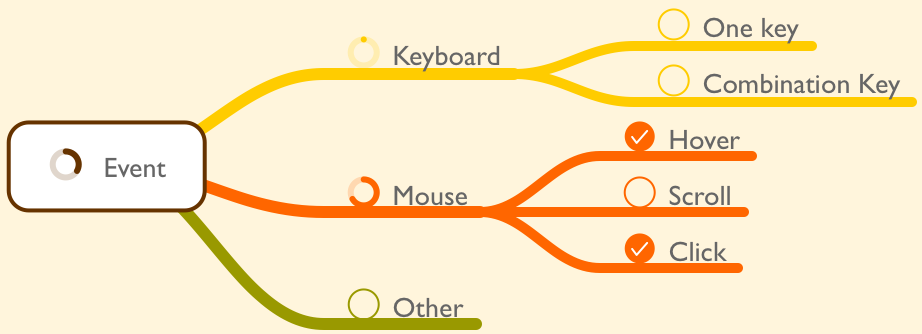
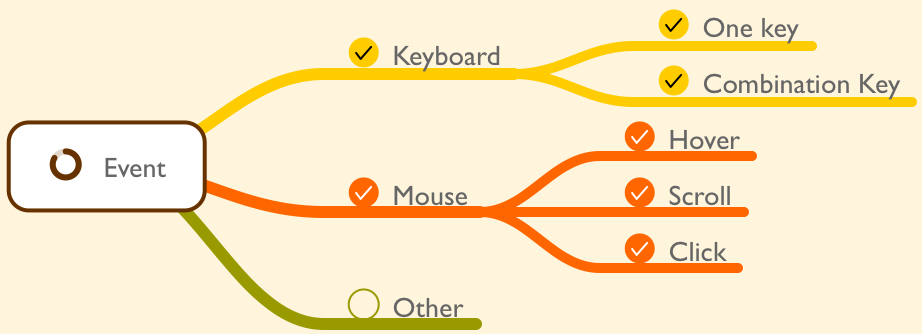
Site updated: 2017-11-19 18:04:21

diff --git a/2017/11/12/all-about-event/index.html b/2017/11/12/all-about-event/index.html
@@ -88,7 +88,7 @@
 <meta property="og:description" content="小角度总结一下事件。  1. MouseEvent1.1 鼠标悬浮一共有两对，mouseenter/mouseleave和mouseover/mouseout，两者的区别如下：  后者会事件冒泡，前者只会出发当前层，而冒泡的好处在于只会被触发一次（层级较深时能有效减少开销）； mouseleave与mouseout，后者在离开子层（即使仍然在范围内）也会触发事件，前者不会。  请看示例（仔细体会）">
 <meta property="og:locale" content="zh-Hans">
 <meta property="og:image" content="https://noname4me.github.io/2017/11/12/all-about-event/Event.png">
-<meta property="og:updated_time" content="2017-11-16T16:15:11.000Z">
+<meta property="og:updated_time" content="2017-11-19T10:02:45.000Z">
 <meta name="twitter:card" content="summary">
 <meta name="twitter:title" content="前端常见Event总结（待续）">
 <meta name="twitter:description" content="小角度总结一下事件。  1. MouseEvent1.1 鼠标悬浮一共有两对，mouseenter/mouseleave和mouseover/mouseout，两者的区别如下：  后者会事件冒泡，前者只会出发当前层，而冒泡的好处在于只会被触发一次（层级较深时能有效减少开销）； mouseleave与mouseout，后者在离开子层（即使仍然在范围内）也会触发事件，前者不会。  请看示例（仔细体会）">
@@ -408,10 +408,16 @@
 <h1 id="2-KeyboardEvent"><a href="#2-KeyboardEvent" class="headerlink" title="2. KeyboardEvent"></a>2. KeyboardEvent</h1><blockquote>
 <p><strong>Note:</strong> 如果是为了处理输入事件，最好使用<code>InputEvent</code>，因为<code>KeyboardEvent</code>只代表键盘事件，非键盘的输入可能无法如你所愿哦～</p>
 </blockquote>
-<p>响应顺序：<code>keydown</code> –&gt; <code>keyup</code> –&gt; <code>keypress</code>。</p>
+<h1 id="2-1-基础"><a href="#2-1-基础" class="headerlink" title="2.1 基础"></a>2.1 基础</h1><p>响应顺序：<code>keydown</code> –&gt; <code>keyup</code> –&gt; <code>keypress</code>。</p>
 <p><a href="https://developer.mozilla.org/en-US/docs/Web/API/KeyboardEvent/code#Code_values_on_Windows" target="_blank" rel="external">键盘编码参考KeyboardEvent.code</a></p>
 <p><a href="http://keycode.info/" target="_blank" rel="external">在线获取keyCode</a></p>
 <p><code>// TODO add select article link.</code><br>一般的，非输入DOMElement无法响应<code>KeyboardEvent</code>，但是可以添加<code>tabindex=数字</code>属性强制让其可以focus，从而响应（见<code>1.4</code>节示例）。</p>
+<h1 id="2-2-组合键"><a href="#2-2-组合键" class="headerlink" title="2.2 组合键"></a>2.2 组合键</h1><p><code>Ctrl</code>、<code>Shift</code>、<code>Alt</code>、<code>Meta</code>在键盘事件中都有对应的标志位(<code>true/false</code>)：<code>ctrlKey</code>、<code>shiftKey</code>、<code>altKey</code>、<code>metaKey</code>。</p>
+<p>请看示例（Ctrl+c/v复制小球）：</p>
+
+<p data-height="265" data-theme-id="dark" data-slug-hash="POERXz" data-default-tab="result" data-user="blurnull" data-embed-version="2" data-pen-title="combined-key" data-preview="true" class="codepen">See the Pen <a href="https://codepen.io/blurnull/pen/POERXz/" target="_blank" rel="external">combined-key</a> by BlurNull (<a href="https://codepen.io/blurnull" target="_blank" rel="external">@blurnull</a>) on <a href="https://codepen.io" target="_blank" rel="external">CodePen</a>.</p>
+<script async src="https://production-assets.codepen.io/assets/embed/ei.js"></script>
+
 
       
     </div>
@@ -595,7 +601,7 @@
             
 
             
-              <div class="post-toc-content"><ol class="nav"><li class="nav-item nav-level-1"><a class="nav-link" href="#1-MouseEvent"><span class="nav-text">1. MouseEvent</span></a><ol class="nav-child"><li class="nav-item nav-level-2"><a class="nav-link" href="#1-1-鼠标悬浮"><span class="nav-text">1.1 鼠标悬浮</span></a></li><li class="nav-item nav-level-2"><a class="nav-link" href="#1-2-鼠标点击"><span class="nav-text">1.2 鼠标点击</span></a></li><li class="nav-item nav-level-2"><a class="nav-link" href="#1-3-滚动（轮）"><span class="nav-text">1.3 滚动（轮）</span></a></li><li class="nav-item nav-level-2"><a class="nav-link" href="#1-4-鼠标事件忽略"><span class="nav-text">1.4 鼠标事件忽略</span></a></li></ol></li><li class="nav-item nav-level-1"><a class="nav-link" href="#2-KeyboardEvent"><span class="nav-text">2. KeyboardEvent</span></a></li></ol></div>
+              <div class="post-toc-content"><ol class="nav"><li class="nav-item nav-level-1"><a class="nav-link" href="#1-MouseEvent"><span class="nav-text">1. MouseEvent</span></a><ol class="nav-child"><li class="nav-item nav-level-2"><a class="nav-link" href="#1-1-鼠标悬浮"><span class="nav-text">1.1 鼠标悬浮</span></a></li><li class="nav-item nav-level-2"><a class="nav-link" href="#1-2-鼠标点击"><span class="nav-text">1.2 鼠标点击</span></a></li><li class="nav-item nav-level-2"><a class="nav-link" href="#1-3-滚动（轮）"><span class="nav-text">1.3 滚动（轮）</span></a></li><li class="nav-item nav-level-2"><a class="nav-link" href="#1-4-鼠标事件忽略"><span class="nav-text">1.4 鼠标事件忽略</span></a></li></ol></li><li class="nav-item nav-level-1"><a class="nav-link" href="#2-KeyboardEvent"><span class="nav-text">2. KeyboardEvent</span></a></li><li class="nav-item nav-level-1"><a class="nav-link" href="#2-1-基础"><span class="nav-text">2.1 基础</span></a></li><li class="nav-item nav-level-1"><a class="nav-link" href="#2-2-组合键"><span class="nav-text">2.2 组合键</span></a></li></ol></div>
             
 
           </div>

diff --git a/css/main.css b/css/main.css
@@ -1823,7 +1823,7 @@ pre .javascript .function {
   width: 4px;
   height: 4px;
   border-radius: 50%;
-  background: #75ffa8;
+  background: #2071e7;
 }
 .links-of-blogroll {
   font-size: 13px;
